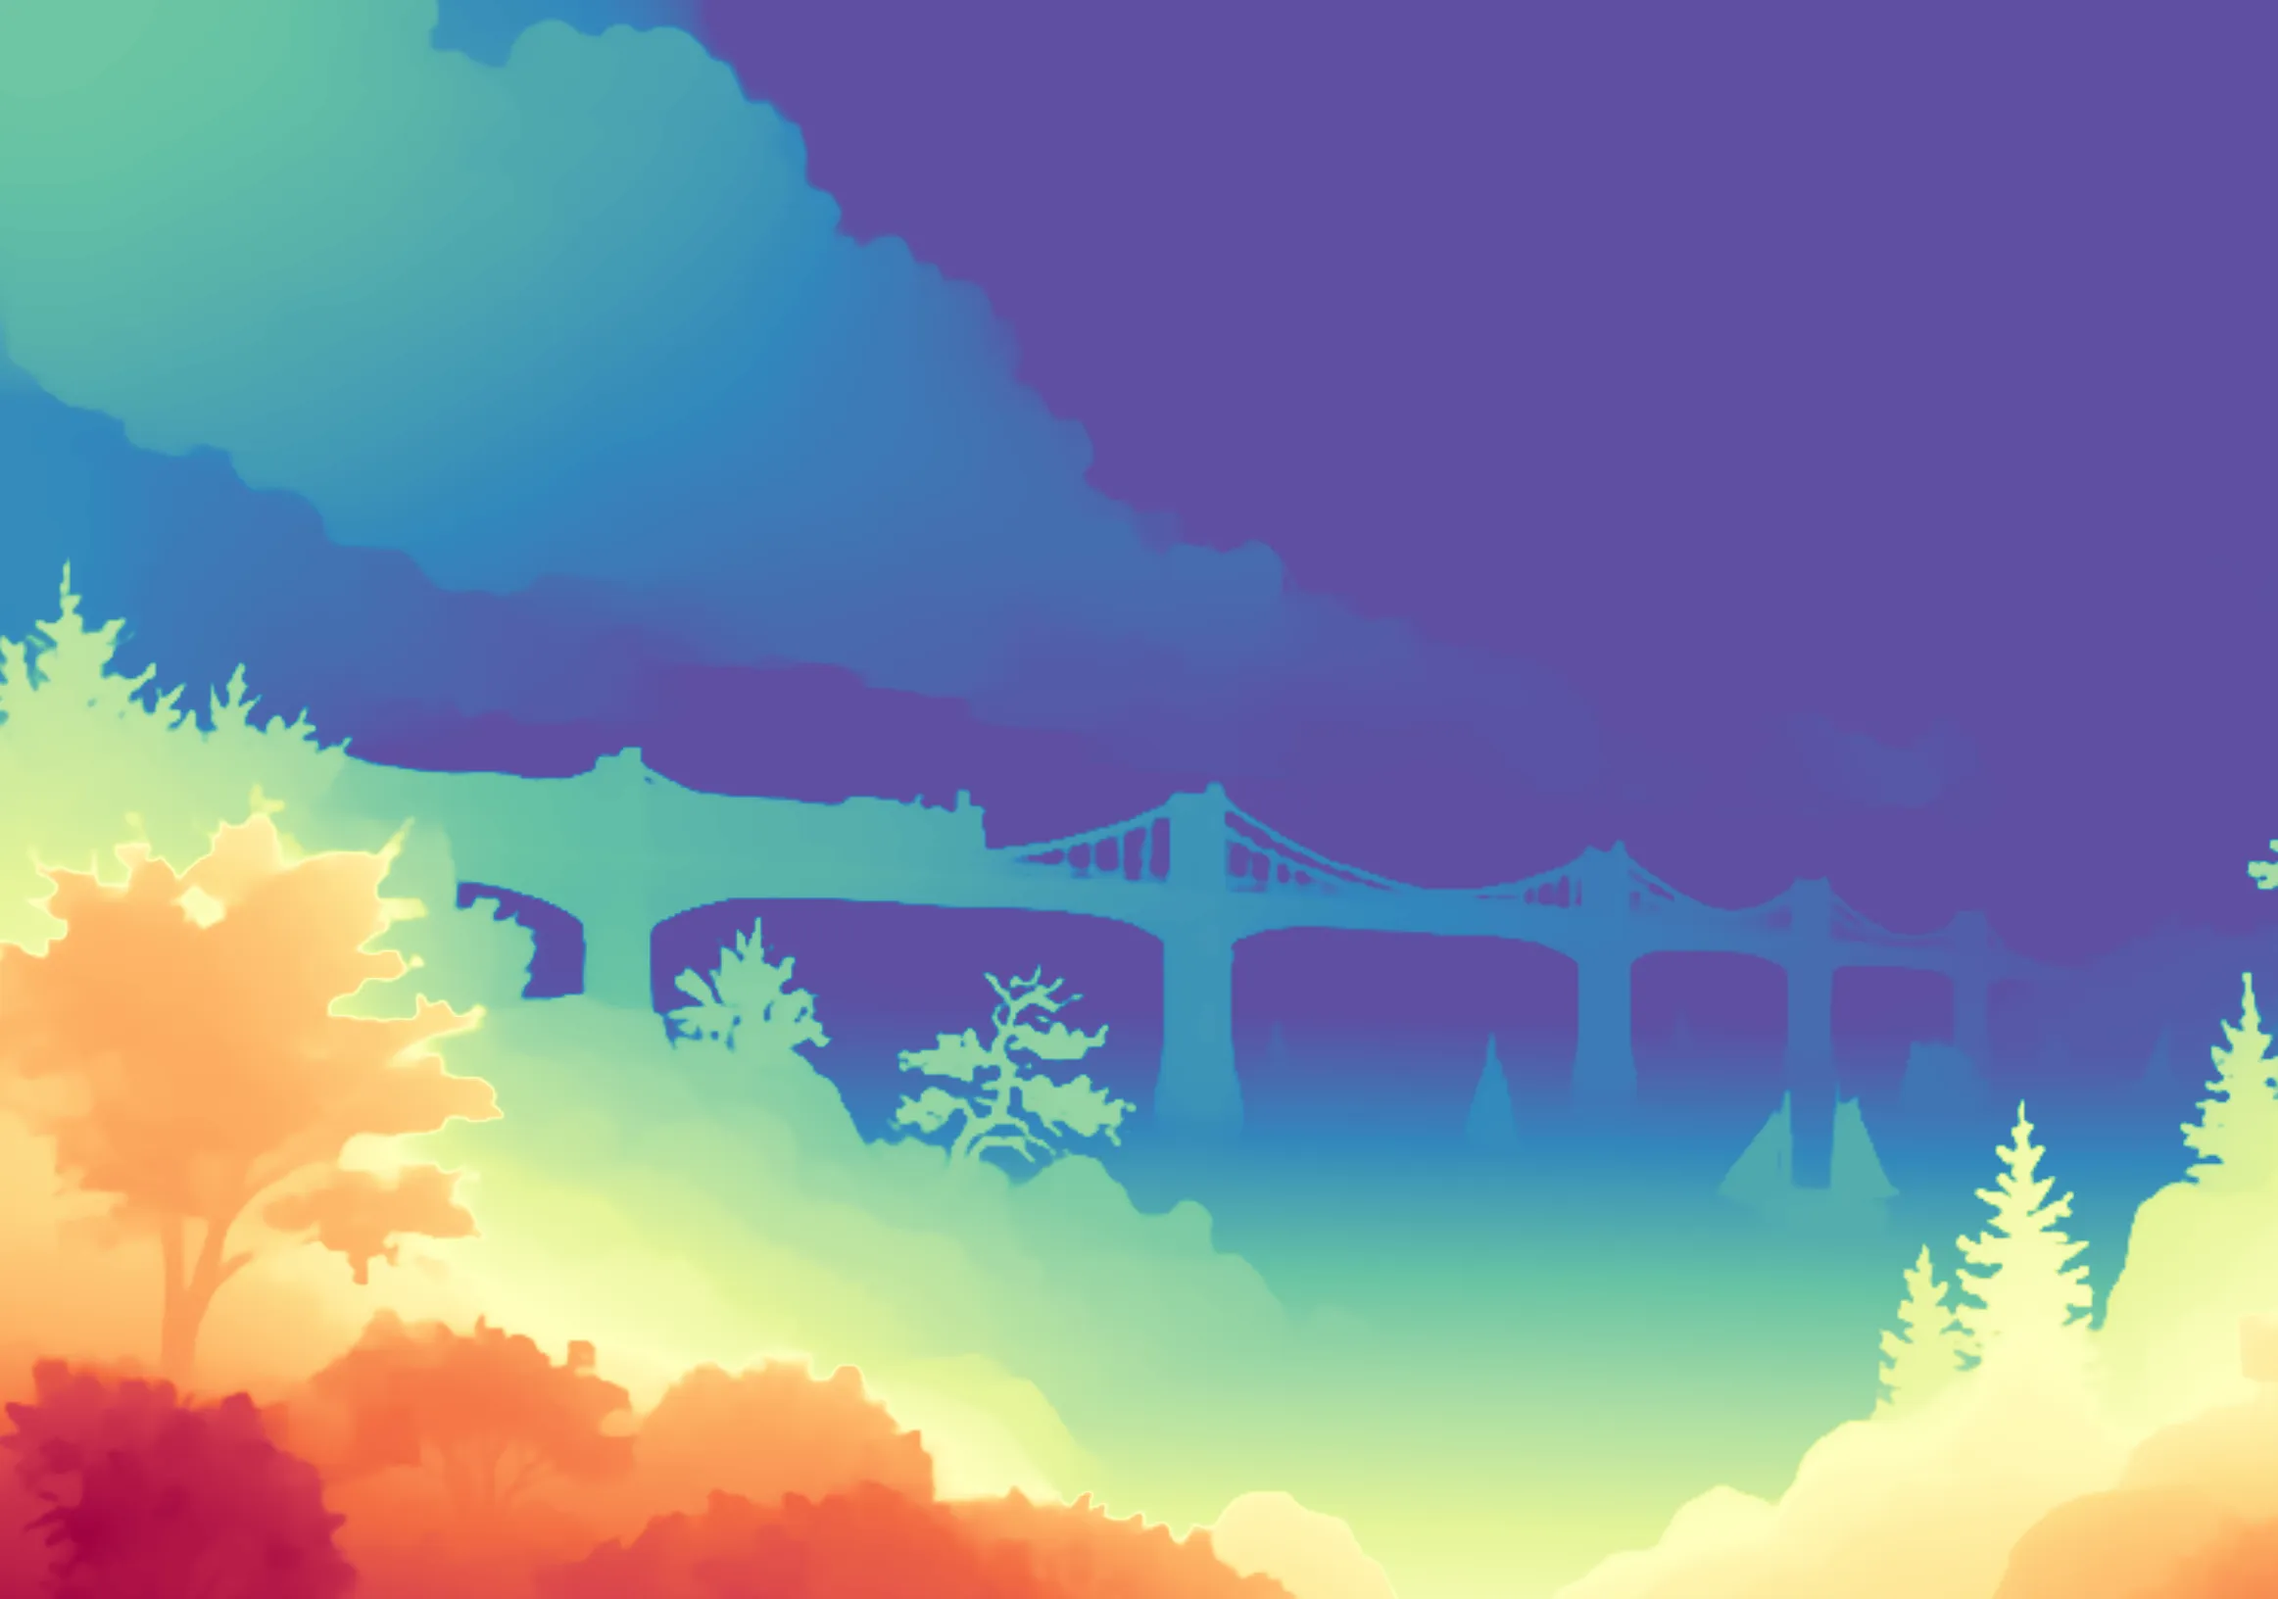
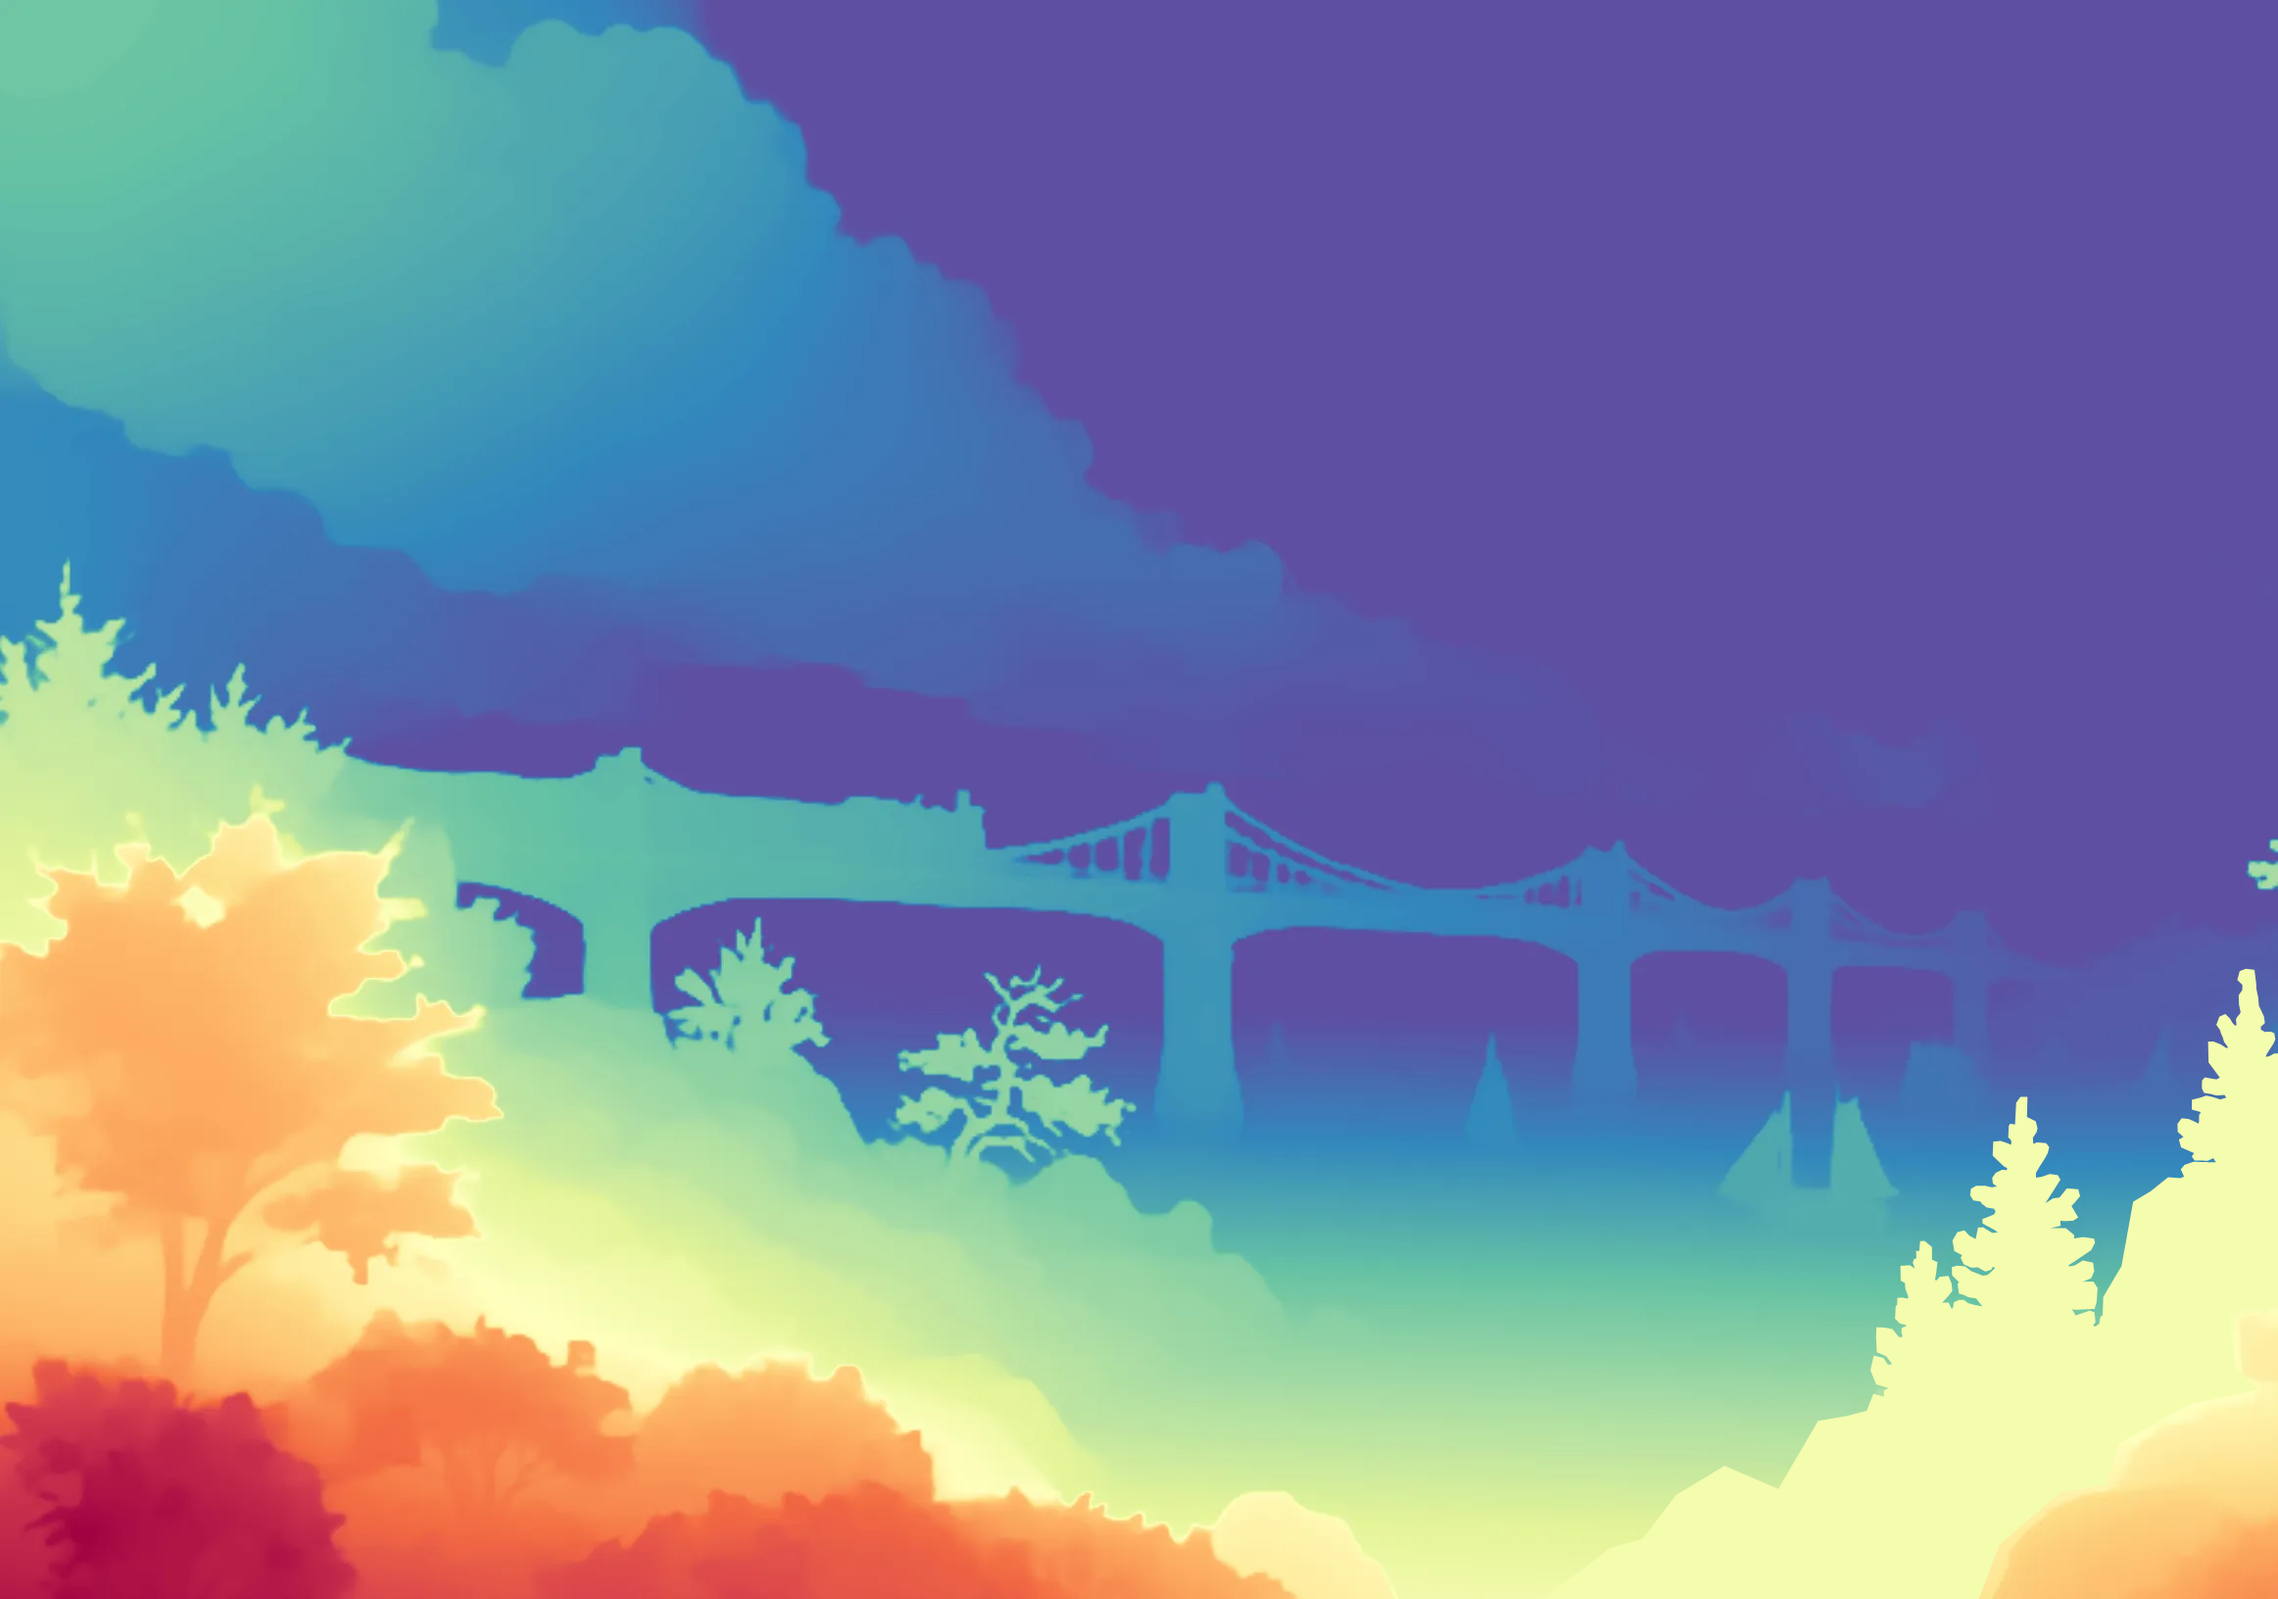
Updated Parallax Effects

Changed region(s): [[0.7432, 0.5938, 1.0, 0.9375]]

diff --git a/assets/js/backgroundImageRevealWebGL.js b/assets/js/backgroundImageRevealWebGL.js
@@ -19,7 +19,7 @@
     const DROP_COUNT = 12;
     const REVEAL_FPS = 24;
     const SOLID_FPS = 30;
-    const ASSET_VERSION = 'image-webgl-15';
+    const ASSET_VERSION = 'image-webgl-16';
     // Runtime-tunable parallax settings. These are intentionally conservative:
     // strength controls maximum UV displacement, depthContrast softens the
     // depth map toward 0.5, blurRadius smooths depth sampling in pixels, and
@@ -27,7 +27,7 @@
     const parallaxSettings = {
         strength: 0.014,
         depthContrast: 0.34,
-        blurRadius: 6.25,
+        blurRadius: 3.50,
         mouseEase: 0.175
     };
     window.__backgroundParallaxSettings = parallaxSettings;

diff --git a/index.html b/index.html
@@ -128,7 +128,7 @@
     <script src="https://cdnjs.cloudflare.com/ajax/libs/highlight.js/11.9.0/languages/bash.min.js"></script>
     <script src="https://cdnjs.cloudflare.com/ajax/libs/highlight.js/11.9.0/languages/json.min.js"></script>
     <script src="assets/js/html2canvas.min.js?v=1.4.1"></script>
-    <script src="assets/js/backgroundImageRevealWebGL.js?v=image-webgl-15"></script>
+    <script src="assets/js/backgroundImageRevealWebGL.js?v=image-webgl-16"></script>
     <script src="assets/js/liquidGlassWebGL.js?v=studio-webgl-78"></script>
     <script src="assets/js/site.js?v=liquid-glass-studio-5"></script>
 </body>
